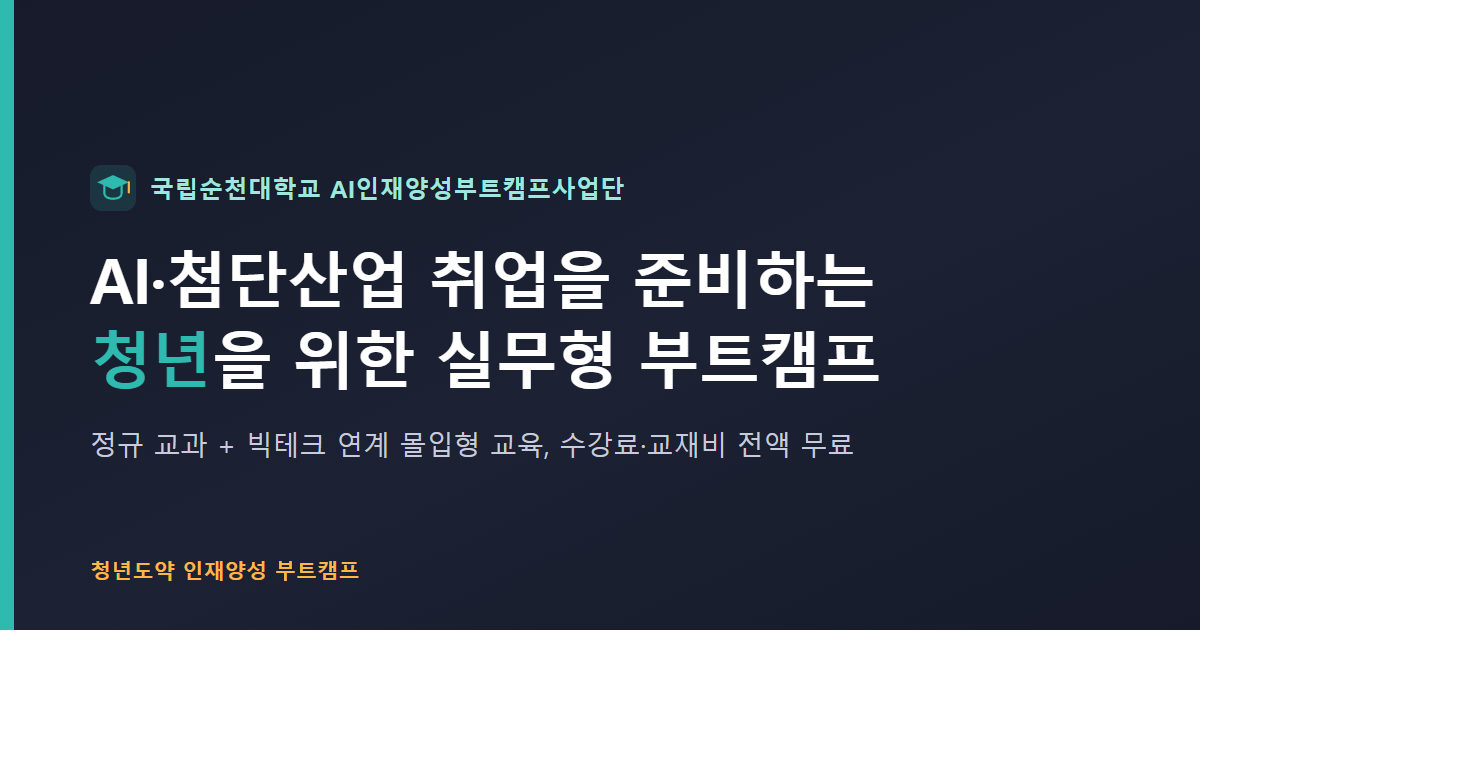
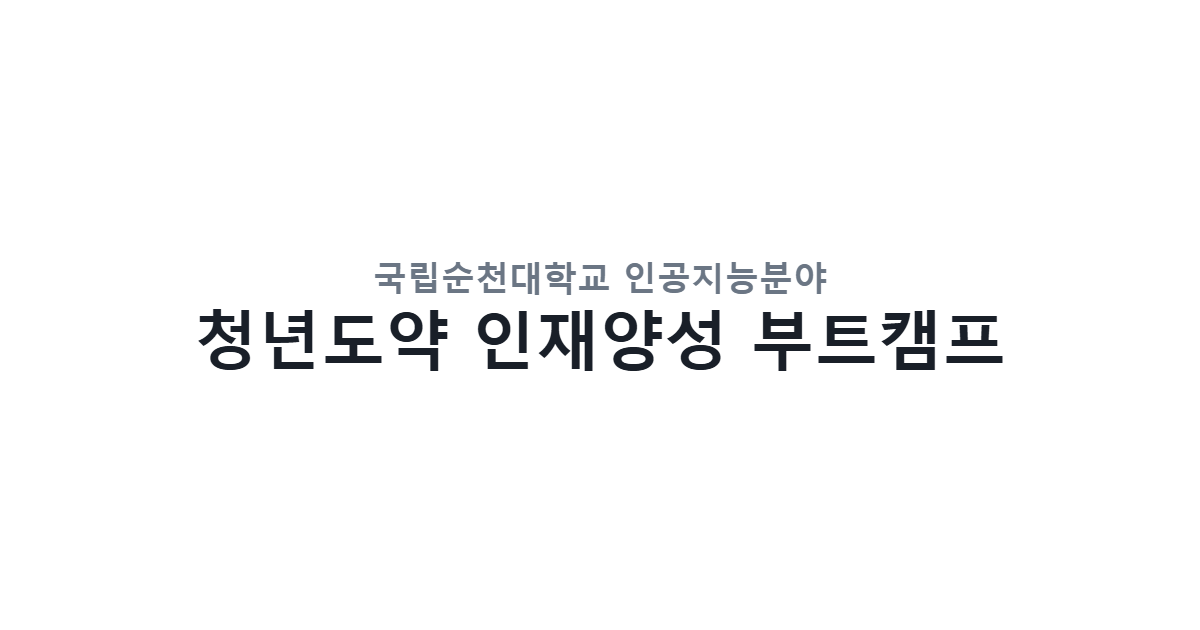
OG 미리보기 이미지를 텍스트 중심 디자인으로 교체, 사이트명/설명 문구 갱신
og:image를 어두운 배경의 아이콘형 디자인 대신 헤더 브랜드 표기와 동일한
흰 배경 2줄 텍스트 디자인으로 바꾸고, og:site_name과 설명 문구를 새
헤드라인에 맞게 업데이트했다.

diff --git a/index.html b/index.html
@@ -9,7 +9,7 @@
 		<title>청년도약 인재양성 부트캠프 | 국립순천대학교</title>
 		<meta
 			name="description"
-			content="AI·첨단산업 취업을 준비하는 미취업 청년을 위한 실무 중심 교육, 청년도약 인재양성 부트캠프 — 국립순천대학교 AI인재양성부트캠프사업단"
+			content="AI·첨단산업 분야 취업을 꿈꾸는 청년을 위한 실무 중심 인재양성 교육 프로그램"
 		/>
 		<meta name="theme-color" content="#1c2233" />
 		<meta name="color-scheme" content="light only" />
@@ -25,11 +25,11 @@
 		<link rel="stylesheet" href="/assets/css/fontawesome-all.min.css" />
 
 		<meta property="og:type" content="website" />
-		<meta property="og:site_name" content="청년도약 인재양성 부트캠프" />
+		<meta property="og:site_name" content="국립순천대학교 청년도약 인재양성 부트캠프" />
 		<meta property="og:title" content="청년도약 인재양성 부트캠프 | 국립순천대학교" />
 		<meta
 			property="og:description"
-			content="AI·첨단산업 취업을 준비하는 미취업 청년을 위한 실무 중심 교육, 청년도약 인재양성 부트캠프 — 국립순천대학교 AI인재양성부트캠프사업단"
+			content="AI·첨단산업 분야 취업을 꿈꾸는 청년을 위한 실무 중심 인재양성 교육 프로그램"
 		/>
 		<meta property="og:url" content="https://youth.scnuai.com/" />
 		<meta property="og:image" content="https://youth.scnuai.com/og-image.png" />
@@ -41,7 +41,7 @@
 		<meta name="twitter:title" content="청년도약 인재양성 부트캠프 | 국립순천대학교" />
 		<meta
 			name="twitter:description"
-			content="AI·첨단산업 취업을 준비하는 미취업 청년을 위한 실무 중심 교육, 청년도약 인재양성 부트캠프"
+			content="AI·첨단산업 분야 취업을 꿈꾸는 청년을 위한 실무 중심 인재양성 교육 프로그램"
 		/>
 		<meta name="twitter:image" content="https://youth.scnuai.com/og-image.png" />
 	</head>
